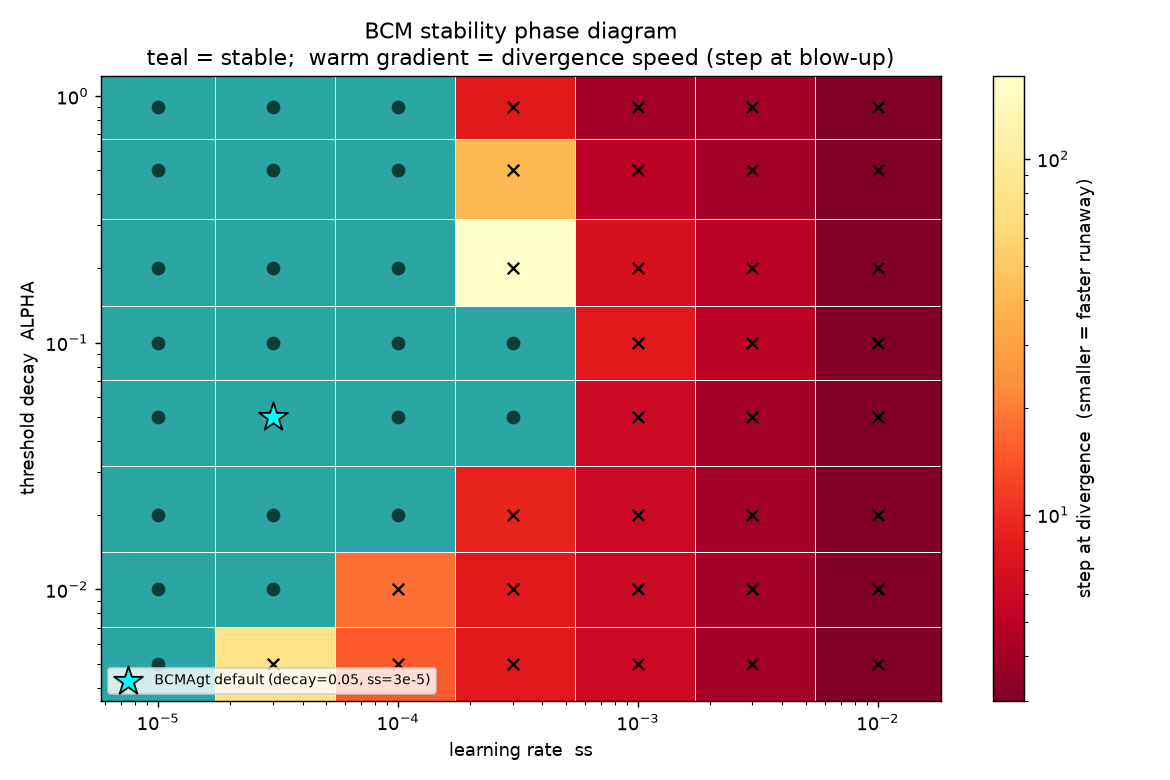
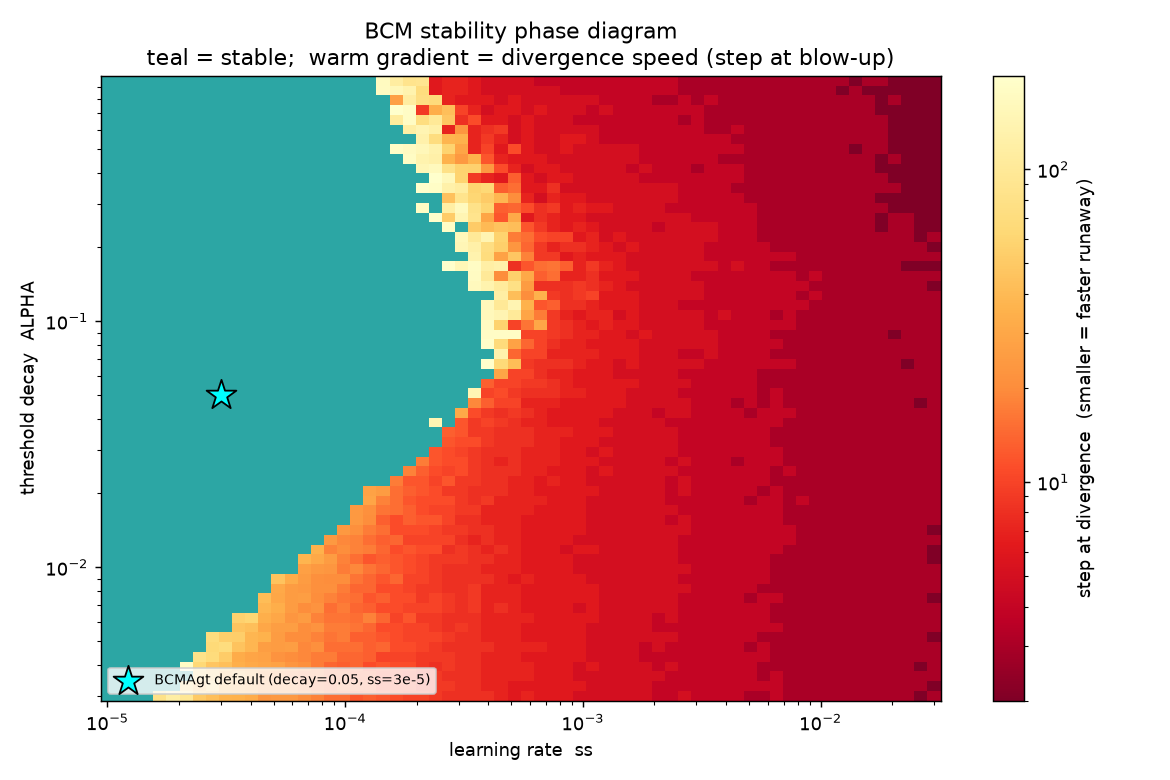
Make BCM stability diagram finer
Looks insanely cool

diff --git a/examples/13_bcm_stability.py b/examples/13_bcm_stability.py
@@ -10,7 +10,8 @@ script maps that plane.
 
 Self-contained on purpose: it defines a minimal vectorized recurrent BCM network
 (BCMAgt) instead of importing the Col/Agt framework, so it is decoupled from upcoming
-BareAgt changes. BCMAgt defaults to the stability-optimal decay.
+BareAgt changes. The whole (decay, ss) grid is then run as ONE batched sweep, so a fine
+phase diagram regenerates in a couple of seconds.
 """
 
 import os
@@ -33,22 +34,24 @@ torch.set_default_dtype(torch.float32)
 # diagram, the star). The optimum is architecture-dependent: too low -> theta freezes
 # and stops braking; too high -> the homeostatic loop over-corrects. ~0.05 here.
 OPTIMAL_DECAY = 0.05
+N_UNITS = 256
+DRIVE = 2.0
 
 
 class BCMAgt:
-    """Minimal vectorized recurrent BCM network.
+    """Minimal vectorized recurrent BCM network (one cell of the phase diagram).
 
-    Captures the substrate's stability behaviour without the agent framework:
-    synchronous (Jacobi) update into a buffer, spike-thresholded recurrent
+    Synchronous (Jacobi) update into a buffer, spike-thresholded recurrent
     propagation, and local BCM plasticity
 
         dW_ij = ss * a_i * a_j * (a_j - theta_j),     theta = EMA(a^2, decay)
 
     on a random recurrent weight matrix. No objective, no backprop. It diverges
-    when potentiation outruns the sliding threshold.
+    when potentiation outruns the sliding threshold. `divergence_grid` below is the
+    batched form of this same step, run over every (decay, ss) pair at once.
     """
 
-    def __init__(self, n_units=256, decay=OPTIMAL_DECAY, ss=3e-5, drive=2.0, seed=0):
+    def __init__(self, n_units=N_UNITS, decay=OPTIMAL_DECAY, ss=3e-5, drive=DRIVE, seed=0):
         g = torch.Generator(device=DEV).manual_seed(seed)
         self.W = 2.0 * torch.randn(n_units, n_units, generator=g, device=DEV) / n_units**0.5
         self.W.fill_diagonal_(0.0)  # no self-connections
@@ -73,44 +76,55 @@ class BCMAgt:
         return (not torch.isfinite(self.a).all()) or (self.a.abs().max() > 1e4)
 
 
-def divergence_step(decay, ss, n_units=256, steps=200):
-    """Run until the network blows up; return the step it diverged, or None if stable."""
-    net = BCMAgt(n_units=n_units, decay=decay, ss=ss)
+def divergence_grid(decays, sss, n_units=N_UNITS, steps=200, drive=DRIVE, seed=0):
+    """Batched form of BCMAgt.step over every (decay, ss) cell at once: one big recurrent
+    BCM net per cell, all stepped together as batched matmuls so the whole grid is a
+    single GPU sweep. Returns array[len(decays), len(sss)] of the step each cell diverged
+    (NaN where it stayed bounded through `steps`)."""
+    g = torch.Generator(device=DEV).manual_seed(seed)
+    nd, ns = len(decays), len(sss)
+    B = nd * ns
+    dec = torch.tensor(decays, device=DEV).repeat_interleave(ns)[:, None]  # [B,1]
+    ss = torch.tensor(sss, device=DEV).repeat(nd)[:, None]                 # [B,1]
+    W = 2.0 * torch.randn(B, n_units, n_units, generator=g, device=DEV) / n_units**0.5
+    W *= ~torch.eye(n_units, dtype=torch.bool, device=DEV)                 # zero diagonals
+    a = torch.randn(B, n_units, generator=g, device=DEV)
+    theta = torch.ones(B, n_units, device=DEV)
+    div = torch.full((B,), -1, dtype=torch.long, device=DEV)              # -1 = still stable
     for t in range(1, steps + 1):
-        net.step()
-        if net.diverged():
-            return t
-    return None
+        post = a * (a - theta)                                            # [B,n]
+        W = torch.baddbmm(W, (ss * a).unsqueeze(2), post.unsqueeze(1))    # W += ss * outer(a, post), per cell
+        u = torch.bmm(torch.where(a < 1.0, 0.0, 1.0).unsqueeze(1), W).squeeze(1)  # spike-bounded propagation
+        u = u + drive * torch.rand(B, n_units, generator=g, device=DEV)
+        theta = (1 - dec) * theta + dec * u**2
+        a = u
+        bad = (~torch.isfinite(a).all(1)) | (a.abs().amax(1) > 1e4)       # [B]
+        div = torch.where(bad & (div < 0), torch.full_like(div, t), div)
+    Z = div.float().cpu().numpy()
+    Z[Z < 0] = np.nan
+    return Z.reshape(nd, ns)
+
+
+def _edges_log(v):
+    v = np.asarray(v, float)
+    m = np.sqrt(v[:-1] * v[1:])
+    return np.r_[v[0] ** 2 / m[0], m, v[-1] ** 2 / m[-1]]
 
 
 def main():
-    DECAYS = [0.005, 0.01, 0.02, 0.05, 0.1, 0.2, 0.5, 0.9]
-    SS = [1e-5, 3e-5, 1e-4, 3e-4, 1e-3, 3e-3, 1e-2]
-    Z = np.full((len(DECAYS), len(SS)), np.nan)  # NaN = stable
-    for i, dec in enumerate(DECAYS):
-        for j, ss in enumerate(SS):
-            d = divergence_step(dec, ss)
-            Z[i, j] = np.nan if d is None else d
-            print(f"decay={dec:<6} ss={ss:.0e} -> {'stable' if d is None else 'div@' + str(d)}", flush=True)
-
-    def _edges_log(v):
-        v = np.asarray(v, float)
-        m = np.sqrt(v[:-1] * v[1:])
-        return np.r_[v[0] ** 2 / m[0], m, v[-1] ** 2 / m[-1]]
+    DECAYS = np.geomspace(3e-3, 0.95, 64)
+    SS = np.geomspace(1e-5, 3e-2, 64)
+    Z = divergence_grid(DECAYS.tolist(), SS.tolist())
+    n_stable = int(np.isnan(Z).sum())
+    print(f"swept {Z.size} cells ({len(DECAYS)} decays x {len(SS)} ss); {n_stable} stable", flush=True)
 
     fig, ax = plt.subplots(figsize=(9, 6))
     cmap = plt.cm.YlOrRd_r.copy()
     cmap.set_bad("#2ca6a4")  # stable cells
     norm = mcolors.LogNorm(vmin=np.nanmin(Z), vmax=np.nanmax(Z))
     pcm = ax.pcolormesh(_edges_log(SS), _edges_log(DECAYS), np.ma.masked_invalid(Z),
-                        cmap=cmap, norm=norm, shading="flat", edgecolors="white", lw=0.4)
-    for i, dec in enumerate(DECAYS):
-        for j, ss in enumerate(SS):
-            stable = np.isnan(Z[i, j])
-            ax.scatter(ss, dec, s=40, zorder=5, linewidths=1.3,
-                       marker=("o" if stable else "x"),
-                       c=("#0b3d3b" if stable else "black"))
-    ax.scatter(3e-5, OPTIMAL_DECAY, s=280, marker="*", facecolor="cyan", edgecolor="black",
+                        cmap=cmap, norm=norm, shading="flat")
+    ax.scatter(3e-5, OPTIMAL_DECAY, s=300, marker="*", facecolor="cyan", edgecolor="black",
                zorder=6, label=f"BCMAgt default (decay={OPTIMAL_DECAY}, ss=3e-5)")
     ax.set_xscale("log")
     ax.set_yscale("log")